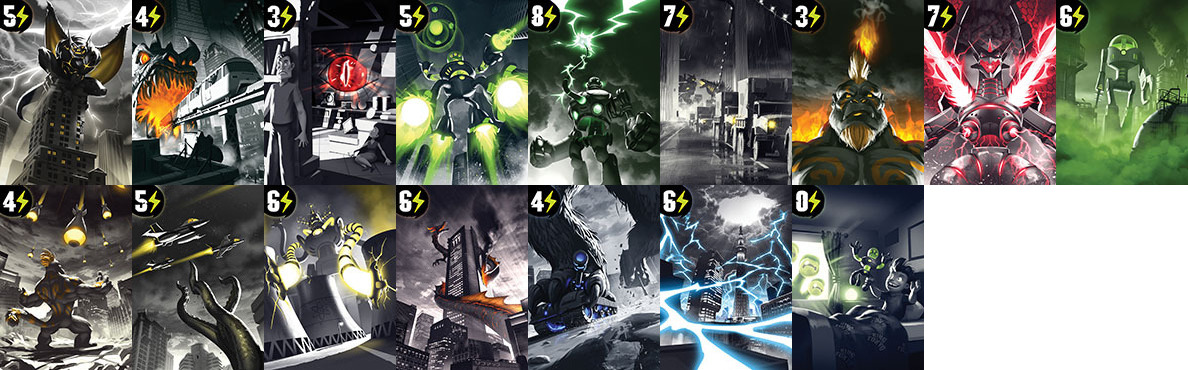
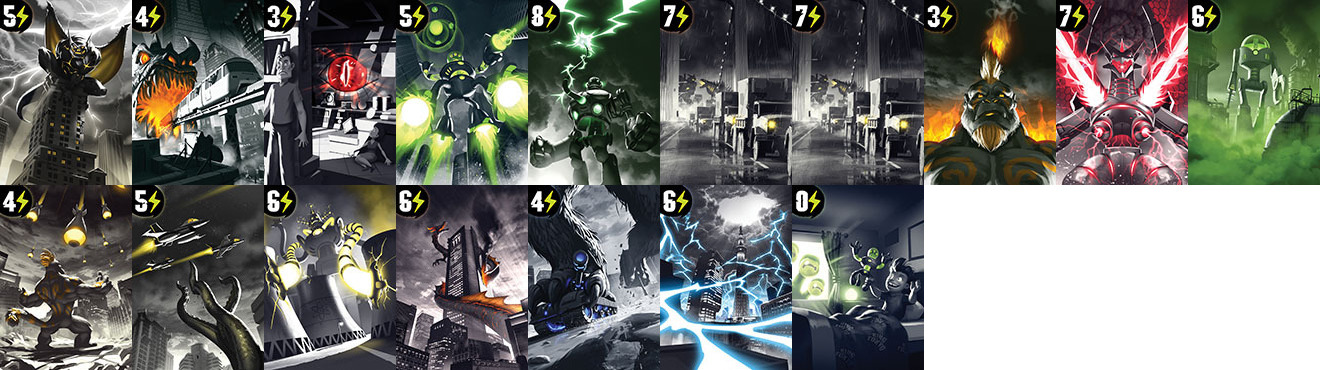
DE set discard colors

diff --git a/kingoftokyo.js b/kingoftokyo.js
@@ -97,6 +97,88 @@ var DISCARD_CARDS_LIST = {
 var COSTUME_CARDS_LIST = [1, 2, 3, 4, 5, 6, 7, 8, 9, 10, 11, 12];
 var TRANSFORMATION_CARDS_LIST = [1];
 var FLIPPABLE_CARDS = [301];
+var DARK_EDITION_CARDS_COLOR_MAPPINGS = {
+    101: {
+        'B180A0': 'b0782a',
+        '9F7595': 'c5985d',
+    },
+    102: {
+        '496787': 'f47920',
+        '415C7A': 'faa61f',
+    },
+    103: {
+        '993422': 'aa1f23',
+        '5F6A70': 'e12d2b',
+    },
+    104: {
+        '5BB3E2': '477b3a',
+        '45A2D6': '89c546',
+        'CE542B': '89c546',
+    },
+    105: {
+        '5D657F': '358246',
+    },
+    106: {
+        '7F2719': 'f7f39b',
+        '812819': 'ffd530',
+    },
+    107: {
+        '7F2719': 'f7f39b',
+        '812819': 'ffd530',
+    },
+    108: {
+        '71200F': 'ea7b24',
+        '4E130B': 'faa61f',
+    },
+    109: {
+        'B1624A': 'e63047',
+    },
+    110: {
+        '645656': '6ea54a',
+        '71625F': '3f612e',
+    },
+    112: {
+        '5B79A2': 'eca729',
+        '5B79A3': 'fdda50', // 5B79A3 not present in current card, to add ?
+    },
+    113: {
+        'EE008E': 'cfad2e',
+        '49236C': 'f8f16b',
+    },
+    115: {
+        '684376': 'c8b62f',
+        '41375F': 'f8f16b',
+    },
+    116: {
+        '5F8183': 'f47920',
+    },
+    117: {
+        'AF966B': '5269b1',
+    },
+    118: {
+        '847443': '2e88b9',
+        '8D7F4E': '63c0ed',
+    },
+};
+var DARK_EDITION_CARDS_MAIN_COLOR = {
+    101: '#b0782a',
+    102: '#f47920',
+    103: '#e12d2b',
+    104: '#5a802e',
+    105: '#358246',
+    106: '#ffd530',
+    107: '#ffd530',
+    108: '#d56529',
+    109: '#e63047',
+    110: '#6ea54a',
+    112: '#eca729',
+    113: '#cfad2e',
+    115: '#c8b62f',
+    116: '#f47920',
+    117: '#5269b1',
+    118: '#2e88b9',
+    119: '#41813c',
+};
 var Cards = /** @class */ (function () {
     function Cards(game) {
         this.game = game;
@@ -476,7 +558,7 @@ var Cards = /** @class */ (function () {
             case 116: return _("[5F8183]Skyscraper");
             case 117: return _("[AF966B]Tank");
             case 118: return _("[847443]Vast [8D7F4E]Storm");
-            case 119: return "Monster pets"; // TODODE
+            case 119: return /*TODODE _*/ ("[83aa50]Monster [41813c]pets");
             // COSTUME
             case 201: return _("[353d4b]Astronaut");
             case 202: return _("[005c98]Ghost");
@@ -507,8 +589,13 @@ var Cards = /** @class */ (function () {
         }
         else if (state == 'span') {
             var first_1 = true;
+            var colorMapping_1 = this.game.isDarkEdition() ? DARK_EDITION_CARDS_COLOR_MAPPINGS[cardTypeId] : null;
             return (coloredCardName === null || coloredCardName === void 0 ? void 0 : coloredCardName.replace(/\[(\w+)\]/g, function (index, color) {
-                var span = "<span style=\"-webkit-text-stroke-color: #" + color + ";\">";
+                var mappedColor = color;
+                if (colorMapping_1 === null || colorMapping_1 === void 0 ? void 0 : colorMapping_1[color]) {
+                    mappedColor = colorMapping_1[color];
+                }
+                var span = "<span style=\"-webkit-text-stroke-color: #" + mappedColor + ";\">";
                 if (first_1) {
                     first_1 = false;
                 }
@@ -700,6 +787,9 @@ var Cards = /** @class */ (function () {
         var description = formatTextIcons(this.getCardDescription(cardType, side));
         var position = this.getCardNamePosition(cardType, side);
         cardDiv.innerHTML = "<div class=\"bottom\"></div>\n        <div class=\"name-wrapper\" " + (position ? "style=\"left: " + position[0] + "px; top: " + position[1] + "px;\"" : '') + ">\n            <div class=\"outline\">" + this.getCardName(cardType, 'span', side) + "</div>\n            <div class=\"text\">" + this.getCardName(cardType, 'text-only', side) + "</div>\n        </div>\n        <div class=\"type-wrapper " + this.getCardTypeClass(cardType) + "\">\n            <div class=\"outline\">" + type + "</div>\n            <div class=\"text\">" + type + "</div>\n        </div>\n        \n        <div class=\"description-wrapper\">" + description + "</div>";
+        if (this.game.isDarkEdition() && DARK_EDITION_CARDS_MAIN_COLOR[cardType]) {
+            cardDiv.style.setProperty('--main-color', DARK_EDITION_CARDS_MAIN_COLOR[cardType]);
+        }
         var textHeight = cardDiv.getElementsByClassName('description-wrapper')[0].clientHeight;
         if (textHeight > 80) {
             cardDiv.getElementsByClassName('description-wrapper')[0].style.fontSize = '6pt';

diff --git a/src/cards.ts b/src/cards.ts
@@ -28,6 +28,90 @@ const TRANSFORMATION_CARDS_LIST = [1];
 
 const FLIPPABLE_CARDS = [301];
 
+const DARK_EDITION_CARDS_COLOR_MAPPINGS = {
+    101: {
+        'B180A0': 'b0782a',
+        '9F7595': 'c5985d',
+    },
+    102: {
+        '496787': 'f47920',
+        '415C7A': 'faa61f',
+    },
+    103: {
+        '993422': 'aa1f23',
+        '5F6A70': 'e12d2b',
+    },
+    104: {
+        '5BB3E2': '477b3a',
+        '45A2D6': '89c546',
+        'CE542B': '89c546',
+    },
+    105: {
+        '5D657F': '358246',
+    },
+    106: {
+        '7F2719': 'f7f39b',
+        '812819': 'ffd530',
+    },
+    107: {
+        '7F2719': 'f7f39b',
+        '812819': 'ffd530',
+    },
+    108: {
+        '71200F': 'ea7b24',
+        '4E130B': 'faa61f',
+    },
+    109: {
+        'B1624A': 'e63047',
+    },
+    110: {
+        '645656': '6ea54a',
+        '71625F': '3f612e',
+    },
+    112: {
+        '5B79A2': 'eca729',
+        '5B79A3': 'fdda50', // 5B79A3 not present in current card, to add ?
+    },
+    113: {
+        'EE008E': 'cfad2e',
+        '49236C': 'f8f16b',
+    },
+    115: {
+        '684376': 'c8b62f',
+        '41375F': 'f8f16b',
+    },
+    116: {
+        '5F8183': 'f47920',
+    },
+    117: {
+        'AF966B': '5269b1',
+    },
+    118: {
+        '847443': '2e88b9',
+        '8D7F4E': '63c0ed',
+    },
+};
+
+const DARK_EDITION_CARDS_MAIN_COLOR = {
+    101: '#b0782a',
+    102: '#f47920',
+    103: '#e12d2b',
+    104: '#5a802e',
+    105: '#358246',
+    106: '#ffd530',
+    107: '#ffd530',
+    108: '#d56529',
+    109: '#e63047',
+    110: '#6ea54a',
+    112: '#eca729',
+    113: '#cfad2e',
+    115: '#c8b62f',
+    116: '#f47920',
+    117: '#5269b1',
+    118: '#2e88b9',
+    119: '#41813c',
+};
+
 class Cards {
     constructor (private game: KingOfTokyoGame) {}
     
@@ -427,7 +511,7 @@ class Cards {
             case 116: return _("[5F8183]Skyscraper");
             case 117: return _("[AF966B]Tank");
             case 118: return _("[847443]Vast [8D7F4E]Storm");
-            case 119: return "Monster pets"; // TODODE
+            case 119: return /*TODODE _*/("[83aa50]Monster [41813c]pets");
 
             // COSTUME
             case 201: return _("[353d4b]Astronaut");
@@ -459,8 +543,15 @@ class Cards {
             return coloredCardName?.replace(/\[(\w+)\]/g, '');
         } else if (state == 'span') {
             let first = true;
+
+            const colorMapping = this.game.isDarkEdition() ? DARK_EDITION_CARDS_COLOR_MAPPINGS[cardTypeId] : null;
+
             return coloredCardName?.replace(/\[(\w+)\]/g, (index, color) => {
-                let span = `<span style="-webkit-text-stroke-color: #${color};">`;
+                let mappedColor = color;
+                if (colorMapping?.[color]) {
+                    mappedColor = colorMapping[color];
+                }
+                let span = `<span style="-webkit-text-stroke-color: #${mappedColor};">`;
                 if (first) {
                     first = false;
                 } else {
@@ -670,6 +761,9 @@ class Cards {
         </div>
         
         <div class="description-wrapper">${description}</div>`;
+        if (this.game.isDarkEdition() && DARK_EDITION_CARDS_MAIN_COLOR[cardType]) {
+            cardDiv.style.setProperty('--main-color', DARK_EDITION_CARDS_MAIN_COLOR[cardType]);
+        }
 
         let textHeight = (cardDiv.getElementsByClassName('description-wrapper')[0] as HTMLDivElement).clientHeight;
 

diff --git a/kingoftokyo.css b/kingoftokyo.css
@@ -2117,6 +2117,9 @@ html[data-dark-edition=true] .highlight-evolution {
 html[data-dark-edition=true] #table #table-center #deck-wrapper #deck {
   background: url("img/dark/card-back.jpg");
 }
+html[data-dark-edition=true] .card-stock .stockitem, html[data-dark-edition=true] .card-stock #deck {
+  --main-color: #f6d445;
+}
 html[data-dark-edition=true] .card-stock .stockitem .card-token.mimic-tile, html[data-dark-edition=true] .card-stock #deck .card-token.mimic-tile {
   background-image: url("img/dark/wickedness-tiles.jpg");
 }
@@ -2126,11 +2129,15 @@ html[data-dark-edition=true] .card-stock .stockitem .bottom, html[data-dark-edit
 html[data-dark-edition=true] .card-stock .stockitem .name-wrapper, html[data-dark-edition=true] .card-stock #deck .name-wrapper {
   font-size: 13pt;
   font-family: "young-frankenstein-italic";
+  color: black;
 }
 html[data-dark-edition=true] .card-stock .stockitem .type-wrapper, html[data-dark-edition=true] .card-stock #deck .type-wrapper {
   transform: unset;
   font-family: "young-frankenstein";
   font-size: 11pt;
+}
+html[data-dark-edition=true] .card-stock .stockitem .type-wrapper .text, html[data-dark-edition=true] .card-stock #deck .type-wrapper .text {
+  background: var(--main-color);
 }
 html[data-dark-edition=true] .card-stock .stockitem .type-wrapper.keep .outline, html[data-dark-edition=true] .card-stock .stockitem .type-wrapper.discard .outline, html[data-dark-edition=true] .card-stock .stockitem .type-wrapper.costume .outline, html[data-dark-edition=true] .card-stock .stockitem .type-wrapper.transformation .outline, html[data-dark-edition=true] .card-stock #deck .type-wrapper.keep .outline, html[data-dark-edition=true] .card-stock #deck .type-wrapper.discard .outline, html[data-dark-edition=true] .card-stock #deck .type-wrapper.costume .outline, html[data-dark-edition=true] .card-stock #deck .type-wrapper.transformation .outline {
   -webkit-text-stroke: 0;
@@ -2138,11 +2145,11 @@ html[data-dark-edition=true] .card-stock .stockitem .type-wrapper.keep .outline,
 }
 html[data-dark-edition=true] .card-stock .stockitem .type-wrapper.keep ::before, html[data-dark-edition=true] .card-stock #deck .type-wrapper.keep ::before {
   content: "((";
-  color: #f6d445;
+  color: var(--main-color);
 }
 html[data-dark-edition=true] .card-stock .stockitem .type-wrapper.keep ::after, html[data-dark-edition=true] .card-stock #deck .type-wrapper.keep ::after {
   content: "))";
-  color: #f6d445;
+  color: var(--main-color);
 }
 html[data-dark-edition=true] .card-stock .stockitem .description-wrapper, html[data-dark-edition=true] .card-stock #deck .description-wrapper {
   color: white;

diff --git a/src/_dark-edition.scss b/src/_dark-edition.scss
@@ -79,6 +79,8 @@ html[data-dark-edition="true"] {
     
     .card-stock {
         .stockitem, #deck {
+            --main-color: #f6d445;
+
             .card-token {    
                 &.mimic-tile {
                     background-image: url("img/dark/wickedness-tiles.jpg"); 
@@ -92,12 +94,18 @@ html[data-dark-edition="true"] {
             .name-wrapper {
                 font-size: 13pt;
                 font-family: 'young-frankenstein-italic';
+                color: black;
             }
 
             .type-wrapper {
                 transform: unset;
                 font-family: 'young-frankenstein';
                 font-size: 11pt;
+
+
+                .text {                    
+                    background: var(--main-color);
+                }
 
                 &.keep .outline, &.discard .outline, &.costume .outline, &.transformation .outline {
                     -webkit-text-stroke: 0;
@@ -107,11 +115,11 @@ html[data-dark-edition="true"] {
                 &.keep {
                     ::before {
                         content: '((';
-                        color: #f6d445;
+                        color: var(--main-color);
                     }
                     ::after {
                         content: '))';
-                        color: #f6d445;
+                        color: var(--main-color);
                     }
                 }
             }

diff --git a/modules/php/debug-util.php b/modules/php/debug-util.php
@@ -22,7 +22,7 @@ trait DebugUtilTrait {
         //$this->debugSetPlayerInLocation($playersIds[0], 1);
         //$this->debugSetPlayerInLocation($playersIds[1], 2);
         //$this->debugSetPlayerEnergy(2343492, 10);
-        $this->debugSetEnergy(2);
+        $this->debugSetEnergy(5);
         //$this->debugSetPoints(5);
         //$this->debugSetPlayerPoints(2343493, 4);
         //$this->debugSetHealth(1);
@@ -57,6 +57,9 @@ trait DebugUtilTrait {
         //$this->debugSetCardInTable(MIMIC_CARD);
         //$this->debugSetCardInTable(WINGS_CARD);
         //$this->debugSetCardInHand(MIMIC_CARD, 2343493);
+        $this->DbQuery("UPDATE card SET `card_location` = 'deck'");
+        foreach ($this->KEEP_CARDS_LIST['dark'] as $cardType) $this->debugSetCardInTable($cardType);
+        //foreach ($this->DISCARD_CARDS_LIST['dark'] as $cardType) $this->debugSetCardInTable(100+$cardType);
         //$this->setMimickedCard(MIMIC_CARD, 2343493, $this->debugSetCardInHand(REGENERATION_CARD, 2343492));
         //$this->setMimickedCard(MIMIC_CARD, 2343493, $this->debugSetCardInHand(EVEN_BIGGER_CARD, 2343493));
         //$this->setMimickedCard(MIMIC_CARD, 2343493, $this->debugSetCardInHand(OPPORTUNIST_CARD, 2343494));
@@ -86,7 +89,7 @@ trait DebugUtilTrait {
         //$this->debugSetCardInHand(HERD_CULLER_CARD, 2343492);
         //$this->debugSetCardInHand(HEALING_RAY_CARD, 2343492);
         //$this->debugSetCardInHand(REGENERATION_CARD, 2343493);
-        $this->debugSetCardInHand(EXTRA_HEAD_1_CARD, 2343492);
+        //$this->debugSetCardInHand(EXTRA_HEAD_1_CARD, 2343492);
         //$this->debugSetCardInHand(EXTRA_HEAD_2_CARD, 2343492);
         //$this->debugSetCardInHand(PSYCHIC_PROBE_CARD, 2343493);
         //$this->debugSetCardInHand(IT_HAS_A_CHILD_CARD, 2343493);
@@ -119,7 +122,7 @@ trait DebugUtilTrait {
         // dark edition
 
         if ($this->isDarkEdition()) {
-            $this->debugSetCardInHand(HIBERNATION_CARD, 2343492);
+            //$this->debugSetCardInHand(HIBERNATION_CARD, 2343492);
             //$this->debugSetCardInHand(NANOBOTS_CARD, 2343492);
             //$this->debugSetCardInHand(SUPER_JUMP_CARD, 2343493);
             //$this->debugSetCardInHand(UNSTABLE_DNA_CARD, 2343493);
